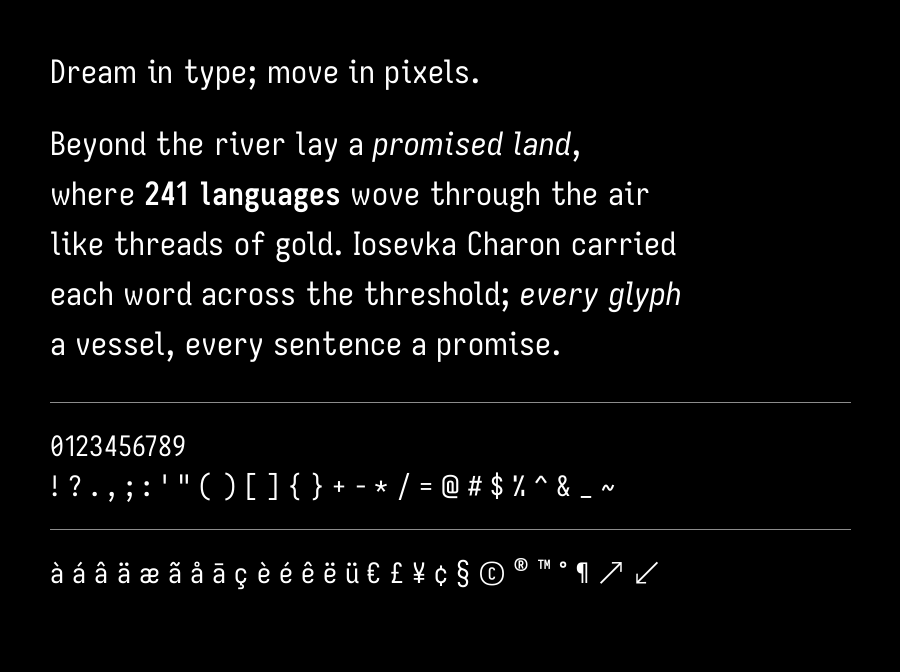
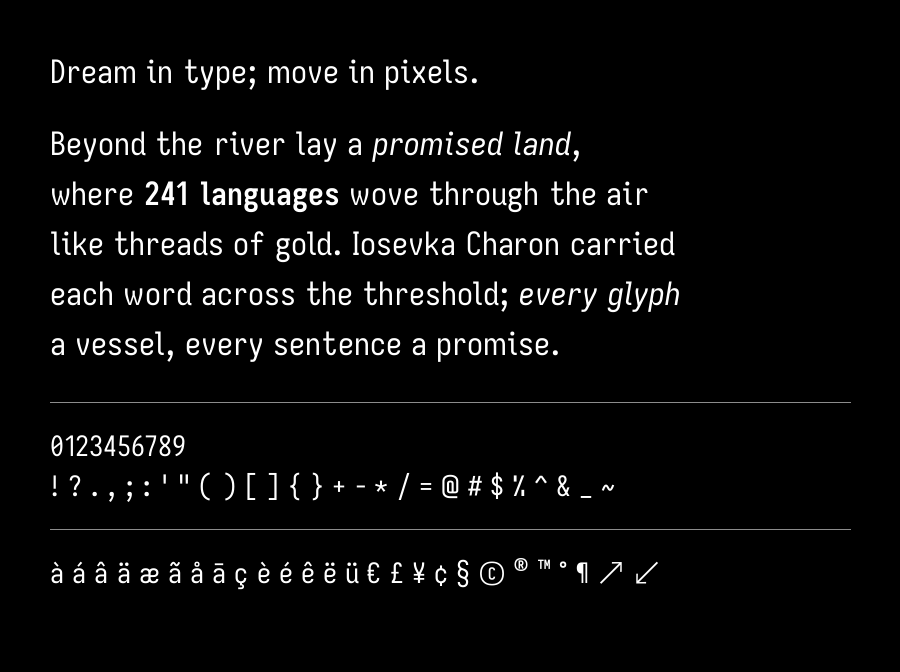
Reduce positive kerns to 30% of computed value
More conservative loosening — keep only 30% of positive kern values
instead of 50%, while negative (tightening) kerns remain at full strength.

diff --git a/scripts/autokern.py b/scripts/autokern.py
@@ -223,7 +223,7 @@ def _compute_all_kerns(
 
             # Halve positive (loosening) kerns for conservative widening
             if config.half_positive and kern_px > 0:
-                kern_px = kern_px / 2.0
+                kern_px = kern_px * 0.3
 
             # Convert pixels to font units
             kern_units = round(kern_px * px_to_units)
